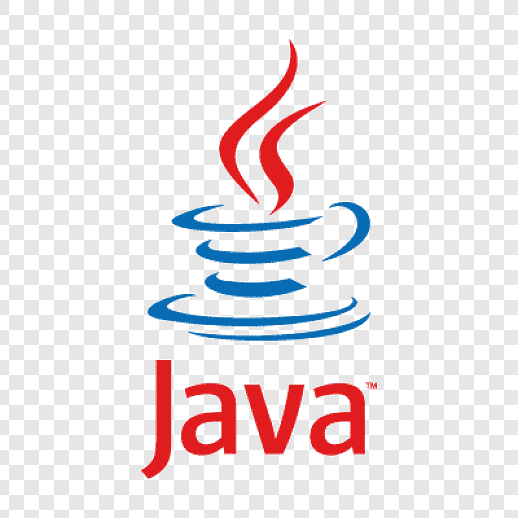
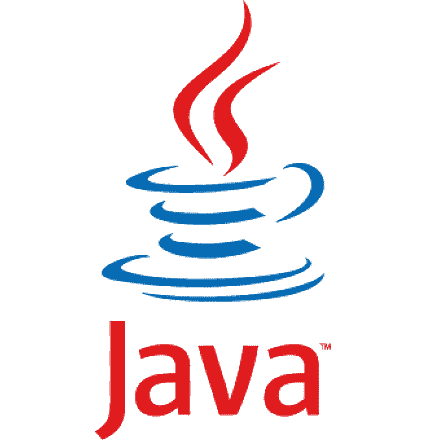
tech images updating and floating style

diff --git a/docs/index.html b/docs/index.html
@@ -30,13 +30,22 @@
         </div>
         <div>
             <div id="sobre-mi">
-                <h2>Sobre mí </h2>
+                <div class="in-line">
+                    <img src="resources/icons/personal.svg" class="icon">
+                    <h2>Sobre mí </h2>
+                </div>
             </div>
-            <div id="experiencia">
-                <h2>Experiencia</h2>
-            </div>
+            <section id="experiencia">
+                <div class="in-line">
+                    <img src="resources/icons/work.svg" class="icon">
+                    <h2>Experiencia</h2>
+                </div>
+            </section>
             <div id="estudios">
-                <h2>Formación académica</h2>
+                <div class="in-line">
+                    <img src="resources/icons/study.svg" class="icon">
+                    <h2>Formación académica</h2>
+                </div>
                 <div>
                     <h3>Profesional</h3>
                     <dl>
@@ -88,25 +97,28 @@
                 </div>
             </div>
             <section id="tecnologias">
-                <h2>Tecnologías</h2>
+                <div class="in-line">
+                    <img src="resources/icons/technologies.svg" class="icon">
+                    <h2>Tecnologías</h2>
+                </div>
                 <div role="tecnologias">
-                    <div id="php">
-                        <img src="resources/php.jpg" width="200">
+                    <div id="php" class="tech-logo">
+                        <img src="resources/php.png">
                     </div>
-                    <div id="git">
-                        <img src="resources/git_logo.jpg" width="200">
+                    <div id="git" class="tech-logo">
+                        <img src="resources/git-logo.png">
                     </div>
-                    <div id="mysql">
-                        <img src="resources/mysqlpng.png" width="200">
+                    <div id="mysql" class="tech-logo">
+                        <img src="resources/mysql.png">
                     </div>
-                    <div id="c#">
-                        <img src="resources/csharp.jpg" width="200">
+                    <div id="c#" class="tech-logo">
+                        <img src="resources/csharp.png">
                     </div>
-                    <div id="potsgresql">
-                        <img src="resources/postgresql.jpg" width="200">
+                    <div id="potsgresql" class="tech-logo">
+                        <img src="resources/postgresql.png">
                     </div>
-                    <div id="java">
-                        <img src="resources/java.png" width="200">
+                    <div id="java" class="tech-logo">
+                        <img src="resources/java.png">
                     </div>
                 </div>
             </section>

diff --git a/docs/styles.css b/docs/styles.css
@@ -13,6 +13,28 @@ img {
   margin: 10px;
 }
 
+img.icon {
+  width: 20px;
+  height: 20px;
+}
+
+div.tech-logo img {
+  height: auto;
+  width: 100px;
+}
+
+div.tech-logo {
+  margin: 5px;
+  height: 140px;
+  width: 140px;
+  display: grid;
+  border-radius: 70px;
+  align-items: center;
+  justify-content: center;
+  background-color: rgb(218, 221, 226);
+  box-shadow: 2px 2px 3px #999;
+}
+
 div[role="tecnologias"] {
   display: flex;
   flex-direction: row;
@@ -20,3 +42,9 @@ div[role="tecnologias"] {
   align-items: center;
   justify-content: center;
 }
+
+div.in-line {
+  display: flex;
+  align-items: center;
+}
+
